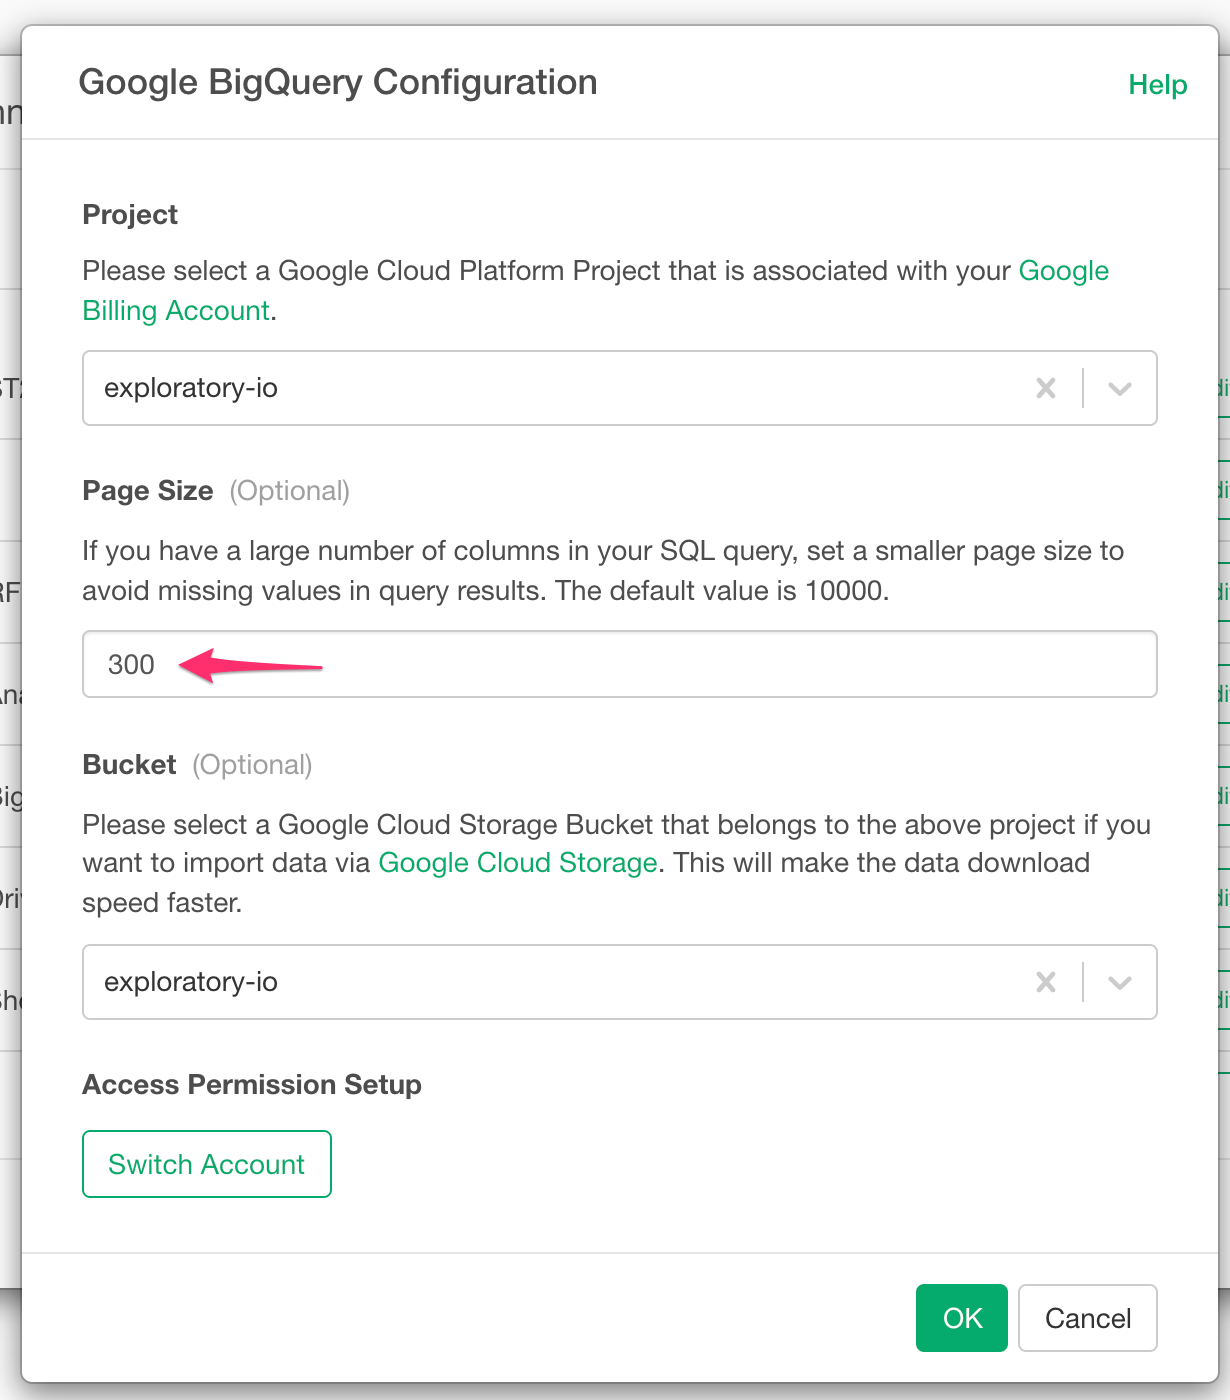
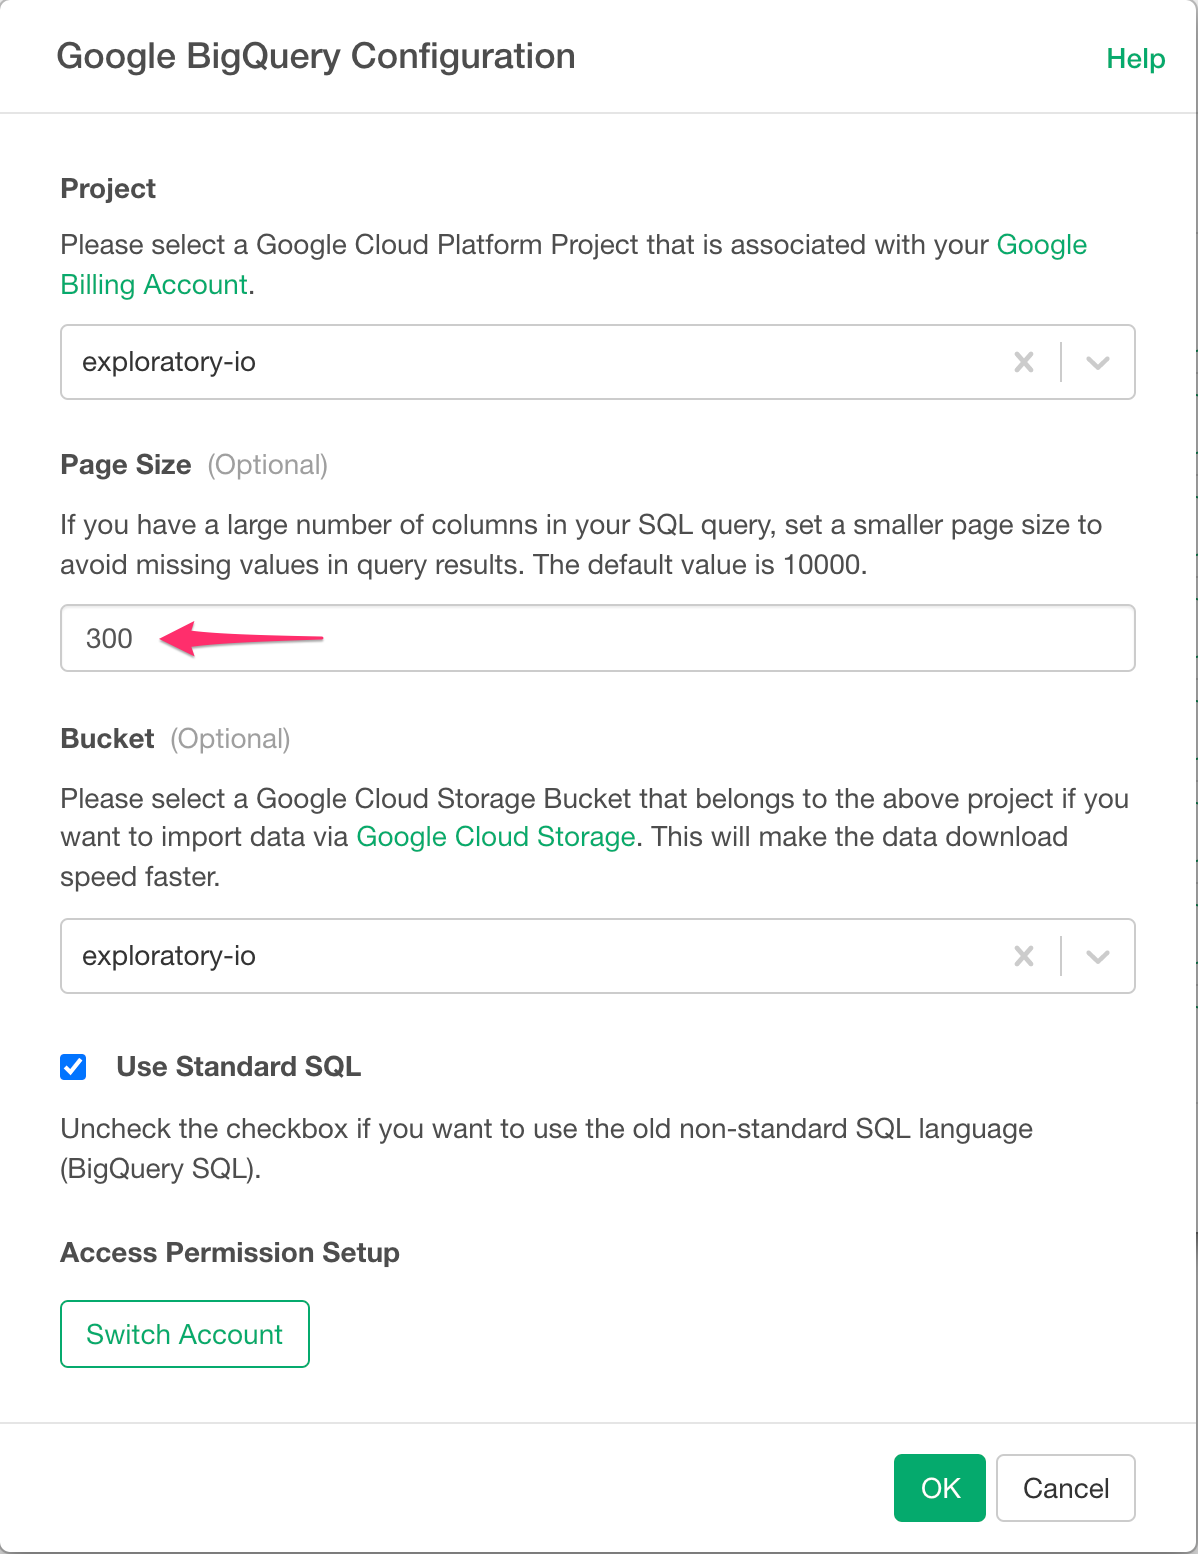
Document: Update Google BigQuery Document for a way to use different project for billing

Changed region(s): [[0.0, 0.0, 1.0, 1.0], [0.0618, 0.3379, 0.9265, 0.43]]

diff --git a/import/google-bigquery.md b/import/google-bigquery.md
@@ -67,7 +67,12 @@ Select an account you want to use for your Google BigQuery and click 'Allow' but
 
 ## 5. Standard SQL
 
-You can now use Standard SQL by clicking "Standard SQL Mode" checkbox.
+You can now use Standard SQL by clicking "Standard SQL Mode" checkbox on Google BigQuery Configuration Dialog.
+
+Click the Edit button to open the Google BigQuery Configuration Dialog.
+![](images/google-big-query-open-config-dialog.png)
+
+On the Google BigQuery Configuration Dialog, you can set the Standard SQL Mode.
 
 ![](images/google-big-query-standard-sql.png)
 
@@ -111,6 +116,11 @@ Please note that decreasing the page size slows the importing data process.
 
 ![](images/google-big-query-page-size.png)
 
+You can override the Page Size at the Import Dialog too.
+
+![](images/google-big-query-page-size-import.png)
+
+
 
 ## 7. Using Parameters in SQL
 
@@ -142,3 +152,9 @@ Here's a [blog post](https://exploratory.io/note/kanaugust/An-Introduction-to-Pa
 Click 'Import' button
 
 If the data in the preview table look ok, then click 'Import' button to import the data into Exploratory.
+
+## 9. Switch Billing Project
+
+When you want to switch your Billing Project, you can click select a Billing Project on Google BigQuery Configuration dialog.
+
+![](images/google-big-query-switch-billing-project.png)
